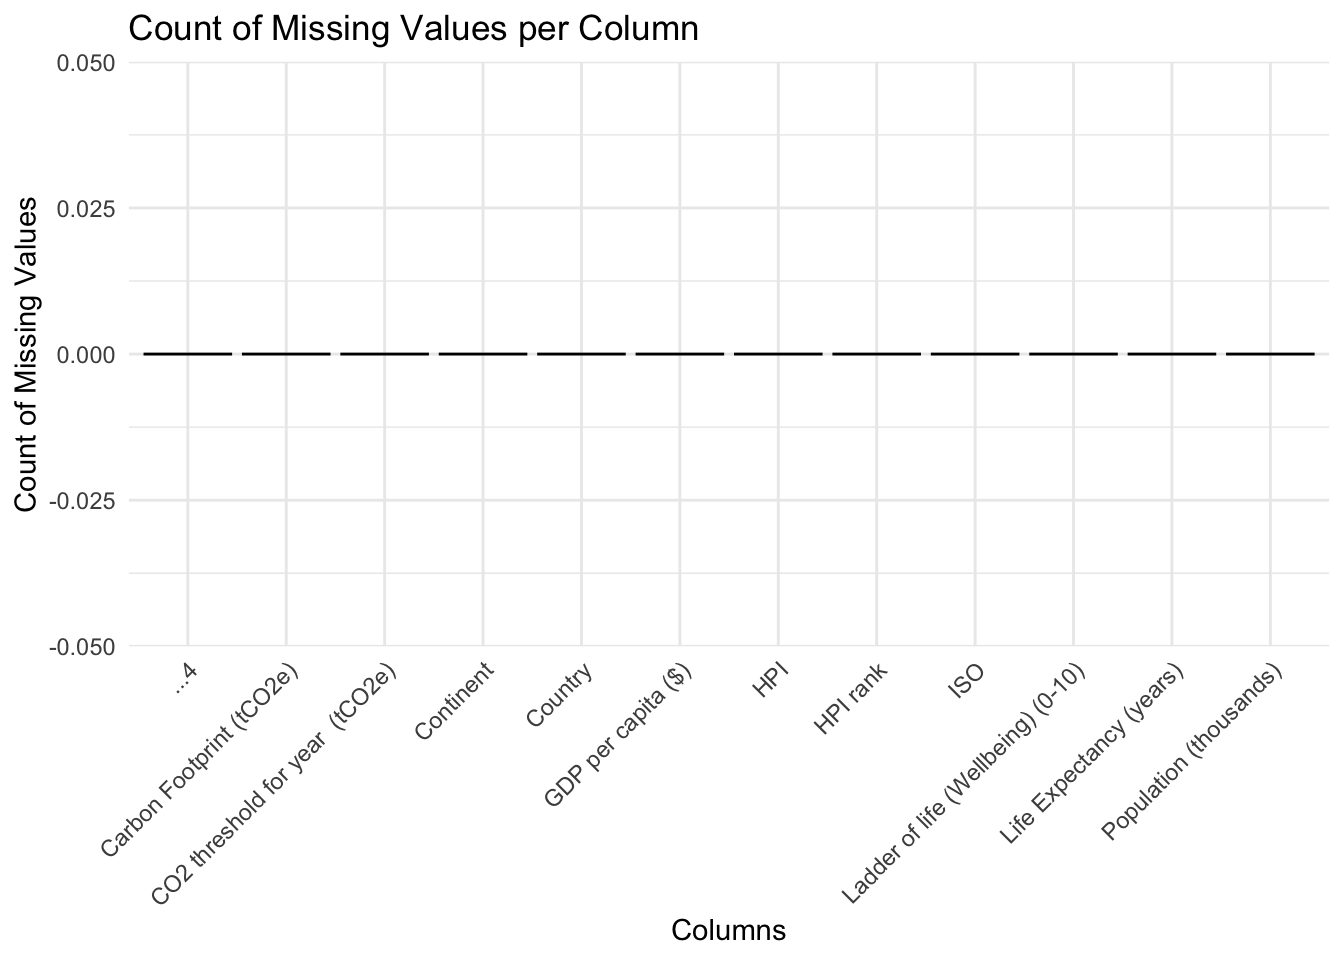
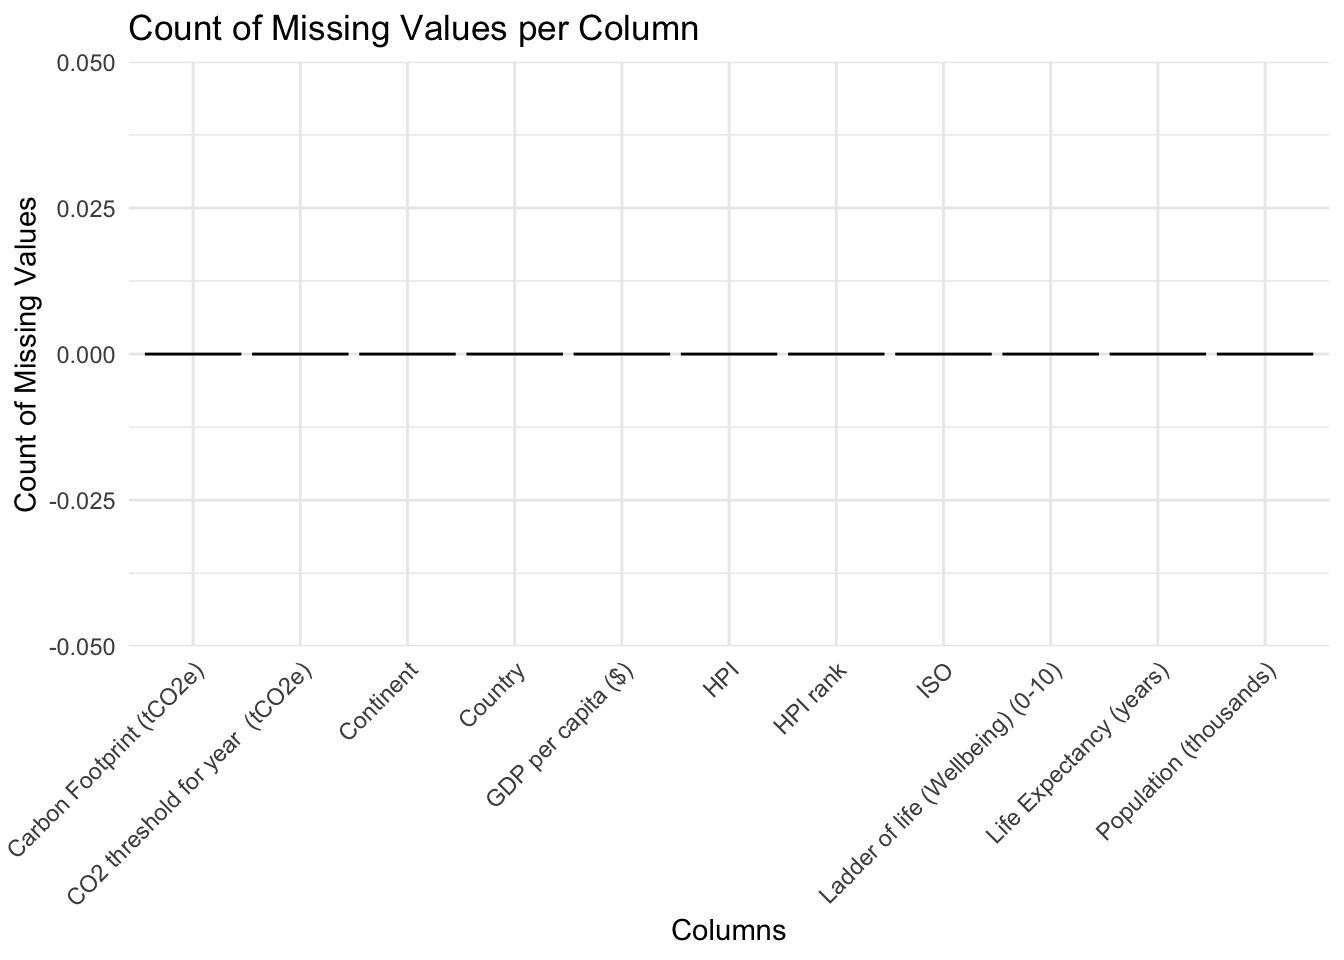
update data.qmd

diff --git a/docs/data.html b/docs/data.html
@@ -212,8 +212,8 @@ pre > code.sourceCode > span > a:first-child::before { text-decoration: underlin
 <section id="section" class="level2" data-number="2.1">
 <h2 data-number="2.1" class="anchored" data-anchor-id="section"><span class="header-section-number">2.1</span> </h2>
 <p># 2.1</p>
-<p>The data set selected is from the Happy Planet Index (HPI) provided by HotorCool, ranking countries based on their HPI score, using 2021 data with the latest rankings available for 2024. It includes columns HPI rank, Country, ISO, Continent, Population, Life Expectancy, Ladder of Life (Wellbeing), Carbon Footprint, CO2 threshold, GDP per capita, and HPI. Life Expectancy data is sourced from the UN Population Division’s World Population Prospects 2022, updated periodically based on demographic projections. Ladder of Life scores are collected annually by Gallup World Poll through surveys of around 1,000 individuals per country, asking respondents to rate their life satisfaction on a scale of 0 to 10, with results weighted to match national demographics. Carbon Footprint data is taken from the World Inequality Database, providing per capita estimates based on national accounts, and GDP per capita comes from global financial institutions like the World Bank. Some missing values are imputed using adjacent years, creating uncertainty, while survey sampling limitations and time lags in the 2024 rankings (based on 2021 data) may affect accuracy.</p>
-<p>The data set is provided in a excel format. We save the data sheet as a csv file and import it using read_csv.</p>
+<p>The data set selected is from the Happy Planet Index (HPI) provided by HotorCool. It contains rankings for countries from 2006-2021 based on data from the corresponding years. For year, the data set includes columns HPI rank, Country, ISO, Continent, Population, Life Expectancy, Ladder of Life (Wellbeing), Carbon Footprint, CO2 threshold, GDP per capita, and HPI. For the latest 2024 data set, Life Expectancy data is sourced from the UN Population Division’s World Population Prospects 2022, updated periodically based on demographic projections. Ladder of Life scores are collected annually by Gallup World Poll through surveys of around 1,000 individuals per country, asking respondents to rate their life satisfaction on a scale of 0 to 10, with results weighted to match national demographics. Carbon Footprint data is taken from the World Inequality Database, providing per capita estimates based on national accounts, and GDP per capita comes from global financial institutions like the World Bank. Some missing values are imputed using adjacent years, creating uncertainty, while survey sampling limitations and time lags in the 2024 rankings may affect accuracy.</p>
+<p>The data set is provided in a excel format. We save the data sheet for each year as a csv file and integrate the data sets from 2006 to 2021 to one in R.</p>
 <p># 2.2</p>
 <div class="cell">
 <details class="code-fold">
@@ -239,18 +239,18 @@ Attaching package: 'dplyr'</code></pre>
 <summary>Code</summary>
 <div class="sourceCode cell-code" id="cb5"><pre class="sourceCode r code-with-copy"><code class="sourceCode r"><span id="cb5-1"><a href="#cb5-1" aria-hidden="true" tabindex="-1"></a><span class="fu">library</span>(readr)</span>
 <span id="cb5-2"><a href="#cb5-2" aria-hidden="true" tabindex="-1"></a><span class="fu">library</span>(ggplot2)</span>
-<span id="cb5-3"><a href="#cb5-3" aria-hidden="true" tabindex="-1"></a>hpi_2024 <span class="ot">&lt;-</span> <span class="fu">read_csv</span>(<span class="st">" All countries_20211.csv"</span>, <span class="at">skip=</span><span class="dv">8</span>)</span></code><button title="Copy to Clipboard" class="code-copy-button"><i class="bi"></i></button></pre></div>
+<span id="cb5-3"><a href="#cb5-3" aria-hidden="true" tabindex="-1"></a>hpi <span class="ot">&lt;-</span> <span class="fu">read_csv</span>(<span class="st">"data/hpi.csv"</span>)</span></code><button title="Copy to Clipboard" class="code-copy-button"><i class="bi"></i></button></pre></div>
 </details>
 <div class="cell-output cell-output-stderr">
 <pre><code>New names:
-• `` -&gt; `...4`</code></pre>
+• `...4` -&gt; `...14`</code></pre>
 </div>
 <div class="cell-output cell-output-stderr">
-<pre><code>Rows: 149 Columns: 12
+<pre><code>Rows: 2384 Columns: 14
 ── Column specification ────────────────────────────────────────────────────────
 Delimiter: ","
-chr (3): Country, ISO, ...4
-dbl (9): HPI rank, Continent, Population (thousands), Life Expectancy (years...
+chr  (4): Country, ISO, ...5, ...14
+dbl (10): ...1, HPI rank, Continent, Population (thousands), Life Expectancy...
 
 ℹ Use `spec()` to retrieve the full column specification for this data.
 ℹ Specify the column types or set `show_col_types = FALSE` to quiet this message.</code></pre>
@@ -259,16 +259,17 @@ dbl (9): HPI rank, Continent, Population (thousands), Life Expectancy (years...
 <div class="cell">
 <details class="code-fold">
 <summary>Code</summary>
-<div class="sourceCode cell-code" id="cb8"><pre class="sourceCode r code-with-copy"><code class="sourceCode r"><span id="cb8-1"><a href="#cb8-1" aria-hidden="true" tabindex="-1"></a>missing_values <span class="ot">&lt;-</span> <span class="fu">colSums</span>(<span class="fu">is.na</span>(hpi_2024))</span>
-<span id="cb8-2"><a href="#cb8-2" aria-hidden="true" tabindex="-1"></a>bar_plot <span class="ot">&lt;-</span> <span class="fu">ggplot</span>(<span class="fu">data.frame</span>(<span class="at">Column =</span> <span class="fu">names</span>(missing_values), <span class="at">Missing =</span> missing_values), </span>
-<span id="cb8-3"><a href="#cb8-3" aria-hidden="true" tabindex="-1"></a>                   <span class="fu">aes</span>(<span class="at">x =</span> Column, <span class="at">y =</span> Missing, <span class="at">fill =</span> Column)) <span class="sc">+</span></span>
-<span id="cb8-4"><a href="#cb8-4" aria-hidden="true" tabindex="-1"></a>  <span class="fu">geom_bar</span>(<span class="at">stat =</span> <span class="st">"identity"</span>, <span class="at">color =</span> <span class="st">"black"</span>) <span class="sc">+</span></span>
-<span id="cb8-5"><a href="#cb8-5" aria-hidden="true" tabindex="-1"></a>  <span class="fu">labs</span>(<span class="at">title =</span> <span class="st">"Count of Missing Values per Column"</span>, <span class="at">x =</span> <span class="st">"Columns"</span>, <span class="at">y =</span> <span class="st">"Count of Missing Values"</span>) <span class="sc">+</span></span>
-<span id="cb8-6"><a href="#cb8-6" aria-hidden="true" tabindex="-1"></a>  <span class="fu">theme_minimal</span>() <span class="sc">+</span></span>
-<span id="cb8-7"><a href="#cb8-7" aria-hidden="true" tabindex="-1"></a>  <span class="fu">theme</span>(<span class="at">legend.position =</span> <span class="st">"none"</span>,</span>
-<span id="cb8-8"><a href="#cb8-8" aria-hidden="true" tabindex="-1"></a>        <span class="at">axis.text.x =</span> <span class="fu">element_text</span>(<span class="at">angle =</span> <span class="dv">45</span>, <span class="at">hjust =</span> <span class="dv">1</span>)) <span class="sc">+</span> <span class="co"># Tilt x-axis labels</span></span>
-<span id="cb8-9"><a href="#cb8-9" aria-hidden="true" tabindex="-1"></a>  <span class="fu">scale_fill_brewer</span>(<span class="at">palette =</span> <span class="st">"Set3"</span>)</span>
-<span id="cb8-10"><a href="#cb8-10" aria-hidden="true" tabindex="-1"></a>bar_plot</span></code><button title="Copy to Clipboard" class="code-copy-button"><i class="bi"></i></button></pre></div>
+<div class="sourceCode cell-code" id="cb8"><pre class="sourceCode r code-with-copy"><code class="sourceCode r"><span id="cb8-1"><a href="#cb8-1" aria-hidden="true" tabindex="-1"></a>hpi <span class="ot">&lt;-</span> hpi <span class="sc">%&gt;%</span> <span class="fu">select</span>(<span class="sc">-</span><span class="st">`</span><span class="at">...5</span><span class="st">`</span>, <span class="sc">-</span><span class="st">`</span><span class="at">...14</span><span class="st">`</span>, <span class="sc">-</span><span class="st">`</span><span class="at">...1</span><span class="st">`</span>)</span>
+<span id="cb8-2"><a href="#cb8-2" aria-hidden="true" tabindex="-1"></a>missing_values <span class="ot">&lt;-</span> <span class="fu">colSums</span>(<span class="fu">is.na</span>(hpi))</span>
+<span id="cb8-3"><a href="#cb8-3" aria-hidden="true" tabindex="-1"></a>bar_plot <span class="ot">&lt;-</span> <span class="fu">ggplot</span>(<span class="fu">data.frame</span>(<span class="at">Column =</span> <span class="fu">names</span>(missing_values), <span class="at">Missing =</span> missing_values), </span>
+<span id="cb8-4"><a href="#cb8-4" aria-hidden="true" tabindex="-1"></a>                   <span class="fu">aes</span>(<span class="at">x =</span> Column, <span class="at">y =</span> Missing, <span class="at">fill =</span> Column)) <span class="sc">+</span></span>
+<span id="cb8-5"><a href="#cb8-5" aria-hidden="true" tabindex="-1"></a>  <span class="fu">geom_bar</span>(<span class="at">stat =</span> <span class="st">"identity"</span>, <span class="at">color =</span> <span class="st">"black"</span>) <span class="sc">+</span></span>
+<span id="cb8-6"><a href="#cb8-6" aria-hidden="true" tabindex="-1"></a>  <span class="fu">labs</span>(<span class="at">title =</span> <span class="st">"Count of Missing Values per Column"</span>, <span class="at">x =</span> <span class="st">"Columns"</span>, <span class="at">y =</span> <span class="st">"Count of Missing Values"</span>) <span class="sc">+</span></span>
+<span id="cb8-7"><a href="#cb8-7" aria-hidden="true" tabindex="-1"></a>  <span class="fu">theme_minimal</span>() <span class="sc">+</span></span>
+<span id="cb8-8"><a href="#cb8-8" aria-hidden="true" tabindex="-1"></a>  <span class="fu">theme</span>(<span class="at">legend.position =</span> <span class="st">"none"</span>,</span>
+<span id="cb8-9"><a href="#cb8-9" aria-hidden="true" tabindex="-1"></a>        <span class="at">axis.text.x =</span> <span class="fu">element_text</span>(<span class="at">angle =</span> <span class="dv">45</span>, <span class="at">hjust =</span> <span class="dv">1</span>)) <span class="sc">+</span> </span>
+<span id="cb8-10"><a href="#cb8-10" aria-hidden="true" tabindex="-1"></a>  <span class="fu">scale_fill_brewer</span>(<span class="at">palette =</span> <span class="st">"Set3"</span>)</span>
+<span id="cb8-11"><a href="#cb8-11" aria-hidden="true" tabindex="-1"></a>bar_plot</span></code><button title="Copy to Clipboard" class="code-copy-button"><i class="bi"></i></button></pre></div>
 </details>
 <div class="cell-output-display">
 <div>
@@ -278,13 +279,13 @@ dbl (9): HPI rank, Continent, Population (thousands), Life Expectancy (years...
 </div>
 </div>
 </div>
-<p>The data does not exhibit any obvious missing values. However, as mentioned in the HPI 2024 methodology report, some missing values may have been imputed using data from adjacent years.</p>
+<p>The data does not exhibit any obvious missing values after we remove the three columns that are duplicate with country labels. However, as mentioned in the HPI 2024 methodology report, some missing values may have been imputed using data from adjacent years.</p>
 <div class="cell">
 <details class="code-fold">
 <summary>Code</summary>
-<div class="sourceCode cell-code" id="cb9"><pre class="sourceCode r code-with-copy"><code class="sourceCode r"><span id="cb9-1"><a href="#cb9-1" aria-hidden="true" tabindex="-1"></a>hpi_2024<span class="sc">$</span>IsMissing <span class="ot">&lt;-</span> <span class="fu">ifelse</span>(hpi_2024<span class="sc">$</span><span class="st">`</span><span class="at">Ladder of life (Wellbeing) (0-10)</span><span class="st">`</span> <span class="sc">==</span> <span class="dv">0</span>, <span class="st">"0"</span>, <span class="st">"Other Values"</span>)</span>
+<div class="sourceCode cell-code" id="cb9"><pre class="sourceCode r code-with-copy"><code class="sourceCode r"><span id="cb9-1"><a href="#cb9-1" aria-hidden="true" tabindex="-1"></a>hpi<span class="sc">$</span>IsMissing <span class="ot">&lt;-</span> <span class="fu">ifelse</span>(hpi<span class="sc">$</span><span class="st">`</span><span class="at">Ladder of life (Wellbeing) (0-10)</span><span class="st">`</span> <span class="sc">==</span> <span class="dv">0</span>, <span class="st">"0"</span>, <span class="st">"Other Values"</span>)</span>
 <span id="cb9-2"><a href="#cb9-2" aria-hidden="true" tabindex="-1"></a></span>
-<span id="cb9-3"><a href="#cb9-3" aria-hidden="true" tabindex="-1"></a>missing_plot <span class="ot">&lt;-</span> <span class="fu">ggplot</span>(hpi_2024, <span class="fu">aes</span>(<span class="at">x =</span> IsMissing, <span class="at">fill =</span> IsMissing)) <span class="sc">+</span> <span class="fu">geom_bar</span>(<span class="at">color =</span> <span class="st">"black"</span>) <span class="sc">+</span> <span class="fu">scale_fill_manual</span>(<span class="at">values =</span> <span class="fu">c</span>(<span class="st">"Missing (0)"</span> <span class="ot">=</span> <span class="st">"pink"</span>, <span class="st">"Other Values"</span> <span class="ot">=</span> <span class="st">"lightblue"</span>)) <span class="sc">+</span> <span class="fu">labs</span>(<span class="at">title =</span> <span class="st">"Distribution of Missing (0) vs Other Values"</span>, <span class="at">x =</span> <span class="st">"Value Type"</span>, <span class="at">y =</span> <span class="st">"Count"</span>) <span class="sc">+</span> <span class="fu">theme_minimal</span>()</span>
+<span id="cb9-3"><a href="#cb9-3" aria-hidden="true" tabindex="-1"></a>missing_plot <span class="ot">&lt;-</span> <span class="fu">ggplot</span>(hpi, <span class="fu">aes</span>(<span class="at">x =</span> IsMissing, <span class="at">fill =</span> IsMissing)) <span class="sc">+</span> <span class="fu">geom_bar</span>(<span class="at">color =</span> <span class="st">"black"</span>) <span class="sc">+</span> <span class="fu">scale_fill_manual</span>(<span class="at">values =</span> <span class="fu">c</span>(<span class="st">"0"</span> <span class="ot">=</span> <span class="st">"pink"</span>, <span class="st">"Other Values"</span> <span class="ot">=</span> <span class="st">"lightblue"</span>)) <span class="sc">+</span> <span class="fu">labs</span>(<span class="at">title =</span> <span class="st">"Distribution of Value 0 vs Other Values"</span>, <span class="at">x =</span> <span class="st">"Value Type"</span>, <span class="at">y =</span> <span class="st">"Count"</span>) <span class="sc">+</span> <span class="fu">theme_minimal</span>()</span>
 <span id="cb9-4"><a href="#cb9-4" aria-hidden="true" tabindex="-1"></a></span>
 <span id="cb9-5"><a href="#cb9-5" aria-hidden="true" tabindex="-1"></a><span class="fu">print</span>(missing_plot)</span></code><button title="Copy to Clipboard" class="code-copy-button"><i class="bi"></i></button></pre></div>
 </details>
@@ -296,7 +297,7 @@ dbl (9): HPI rank, Continent, Population (thousands), Life Expectancy (years...
 </div>
 </div>
 </div>
-<p>However, there are 0 values in the HPI scores and the Ladder of Life columns, which may indicate missing data in the Ladder of Life scores. Based on the calculation methodology for the HPI score, a 0 in the HPI score might be directly influenced by a 0 in the Ladder of Life column. Therefore, we analyze the number of 0 values in the Ladder of Life column to observe the potential missing values. We can see that there are only two 0 scores for Ladder of Life columns, which are for Sudan and Burundi.</p>
+<p>However, there are 0 values in the HPI scores and the Ladder of Life columns, which likely indicate missing data in the Ladder of Life scores. Given the calculation methodology for the HPI score, a 0 in the HPI score is caused by a 0 in the Ladder of Life column. To better understand the extent of missing data, we analyzed the number of 0 values in the Ladder of Life column and found that there are approximately 250 occurrences across the years. For the analysis, countries with 0 values may be excluded as they do not contribute meaningful information to the results.</p>
 
 
 </section>
